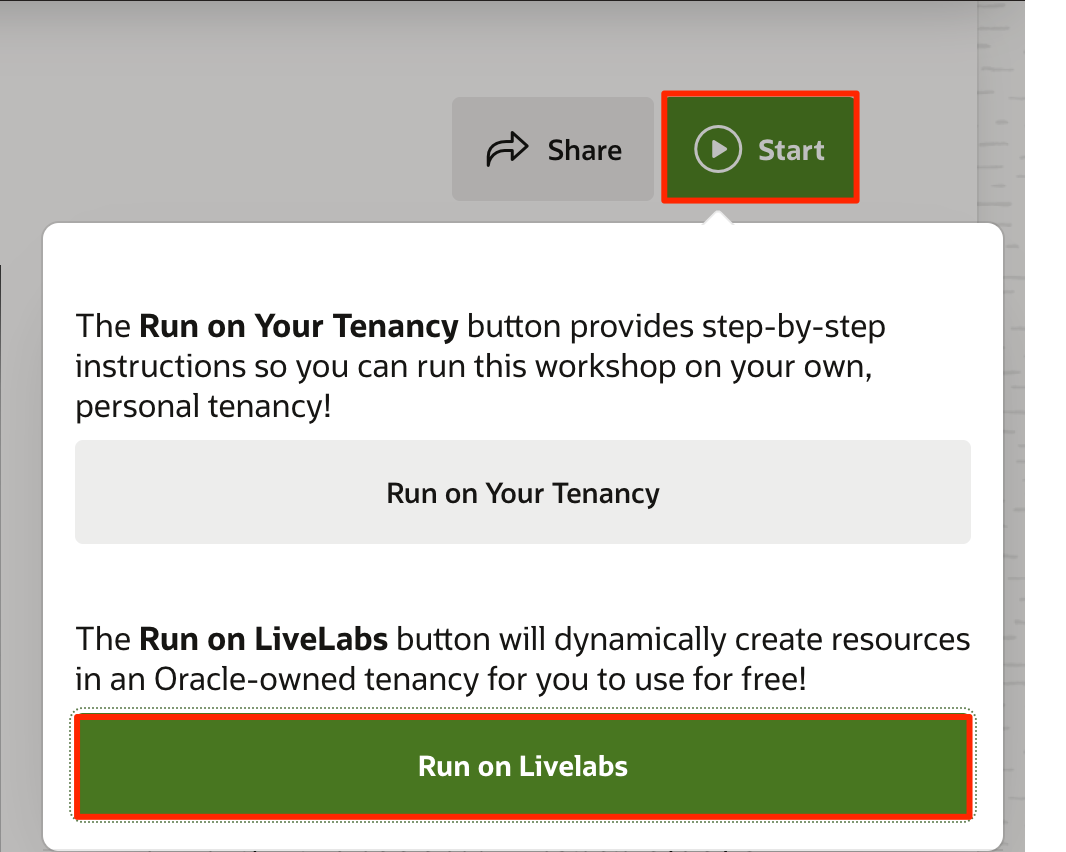
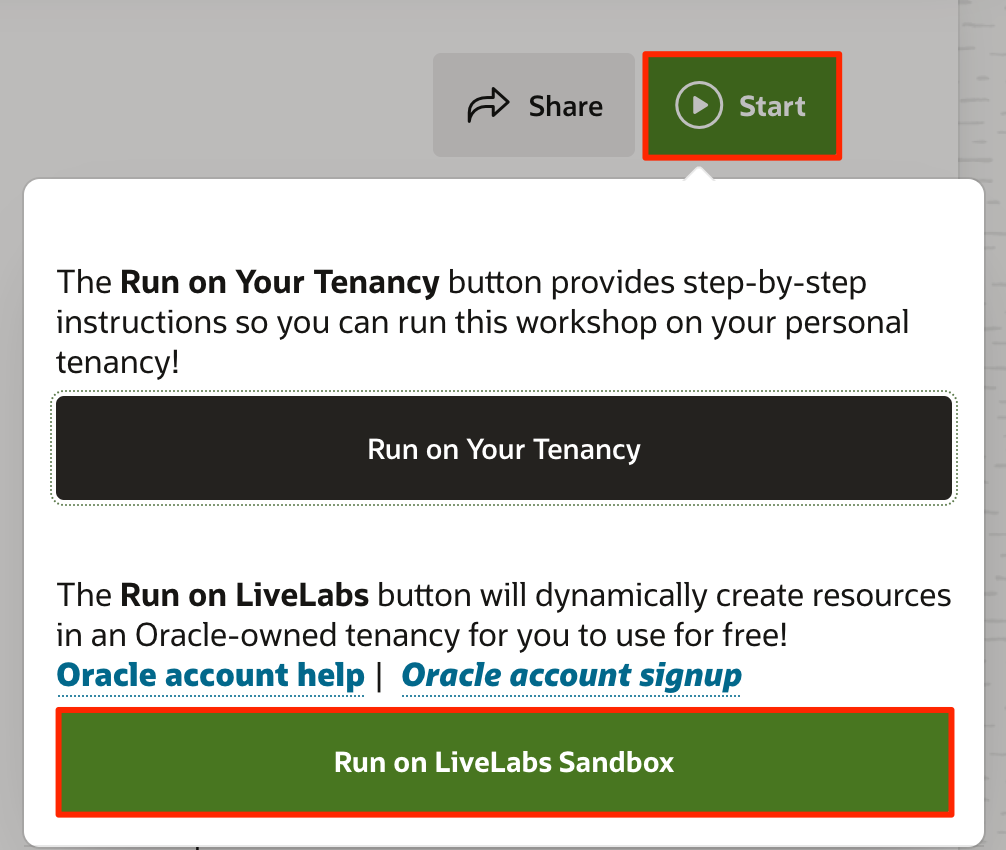
Common labs: UI change for Livelabs Sandbox + delete outdated link from freetier register lab (#79)
* QA common lab verify-setup-19c-livelabs

* Update .gitignore

* Revert "Update .gitignore"

This reverts commit 2938712c72d3ca690d0992651dbd5788bbde9af1.

* Update .gitignore

* Update .gitignore

* remove ds store

* LiveLabs 4.0 update how to log into oracle cloud

* LiveLabs 4.0 Update: Get started labs

* Update manifest.json

* Update Step by Step Guide

* Update test.md

* Update compartment-select.png

* Updated sql dev login common lab

* Updated sqldevweb login lab

* Updated Need Help lab for freetier and livelabs

* Added instructions on how to embed a video

* Step by Step guide

* Added Lab 0 and Lab 4 to CloudWorld Support Workshop

* remove atom

* Update 3-labs-use-code-editor-develop-content.md

* Step by Step updates

* Added section on requesting green button

* Update Step by Step guide

* green button lite

* Update 4-labs-github-merge-commit-pullrequest.md

* Fixed broken images after change atom -> code editor

* Common Labs

* Common labs and images

* Updated last updated time

* remove outdated info - Universal Credits

* UI change: Run on LiveLabs -> Run on LiveLabs Sandbox

diff --git a/labs/cloud-login/cloud-login-livelabs-novnc.md b/labs/cloud-login/cloud-login-livelabs-novnc.md
@@ -35,7 +35,7 @@ Creating an Oracle account can be summarized in the following two simple steps.
 
 ## Task 2: Request Workshop Reservation
 
-1. Using your *Oracle Account Login* go to [LiveLabs](https://developer.oracle.com/livelabs). Open a workshop, click **Start**, and then **Run on LiveLabs** to request a reservation for this workshop.
+1. Using your *Oracle Account Login* go to [LiveLabs](https://developer.oracle.com/livelabs). Open a workshop, click **Start**, and then **Run on LiveLabs Sandbox** to request a reservation for this workshop.
   ![Run on LiveLabs](images/run-on-livelabs.png " ")
 
 2. Fill out information on the *Reserve Workshop* page. Check **I consent to recieve emails from LiveLabs for my reservation**. Click **Submit Reservation**.

diff --git a/labs/cloud-login/cloud-login-livelabs.md b/labs/cloud-login/cloud-login-livelabs.md
@@ -35,7 +35,7 @@ Creating an Oracle account can be summarized in the following two simple steps.
 
 ## Task 2: Request Workshop Reservation
 
-1. Using your *Oracle Account Login* go to [LiveLabs](https://developer.oracle.com/livelabs). Open a workshop, click **Start**, and then **Run on LiveLabs** to request a reservation for this workshop.
+1. Using your *Oracle Account Login* go to [LiveLabs](https://developer.oracle.com/livelabs). Open a workshop, click **Start**, and then **Run on LiveLabs Sandbox** to request a reservation for this workshop.
   ![Run on LiveLabs](images/run-on-livelabs.png " ")
 
 2. Fill out information on the *Reserve Workshop* page. Check **I consent to recieve emails from LiveLabs for my reservation**. Click **Submit Reservation**.

diff --git a/labs/cloud-login/cloud-login-livelabs2.md b/labs/cloud-login/cloud-login-livelabs2.md
@@ -35,7 +35,7 @@ Creating an Oracle account can be summarized in the following two simple steps.
 
 ## Task 2: Request Workshop Reservation
 
-1. Using your *Oracle Account Login* go to [LiveLabs](https://developer.oracle.com/livelabs). Open a workshop, click **Start**, and then **Run on LiveLabs** to request a reservation for this workshop.
+1. Using your *Oracle Account Login* go to [LiveLabs](https://developer.oracle.com/livelabs). Open a workshop, click **Start**, and then **Run on LiveLabs Sandbox** to request a reservation for this workshop.
   ![Run on LiveLabs](images/run-on-livelabs.png " ")
 
 2. Fill out information on the *Reserve Workshop* page. Check **I consent to recieve emails from LiveLabs for my reservation**. Click **Submit Reservation**.

diff --git a/labs/cloud-login/pre-register-free-tier-account.md b/labs/cloud-login/pre-register-free-tier-account.md
@@ -8,7 +8,7 @@ Estimated Time: 5 minutes
 
 ### Existing Cloud Accounts
 
-If you already have access to an Oracle Cloud account, including an Oracle Cloud account using [Oracle Universal Credits](https://docs.oracle.com/en/cloud/get-started/subscriptions-cloud/csgsg/universal-credits.html), skip to **Task 2** to sign in to your cloud tenancy.
+If you already have access to an Oracle Cloud account, skip to **Task 2** to sign in to your cloud tenancy.
 
 ### Objectives
 
